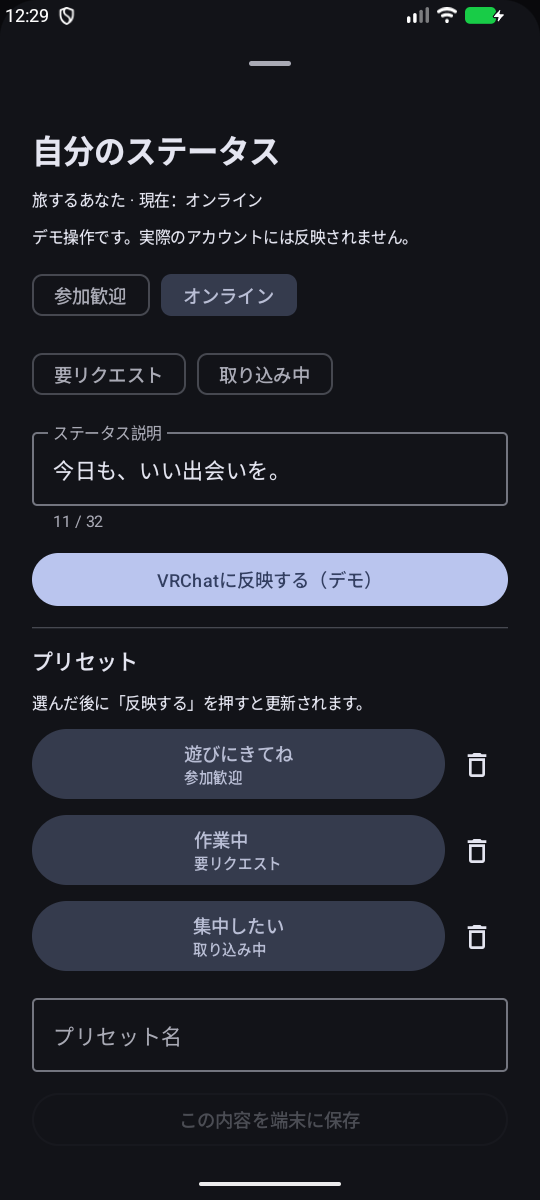
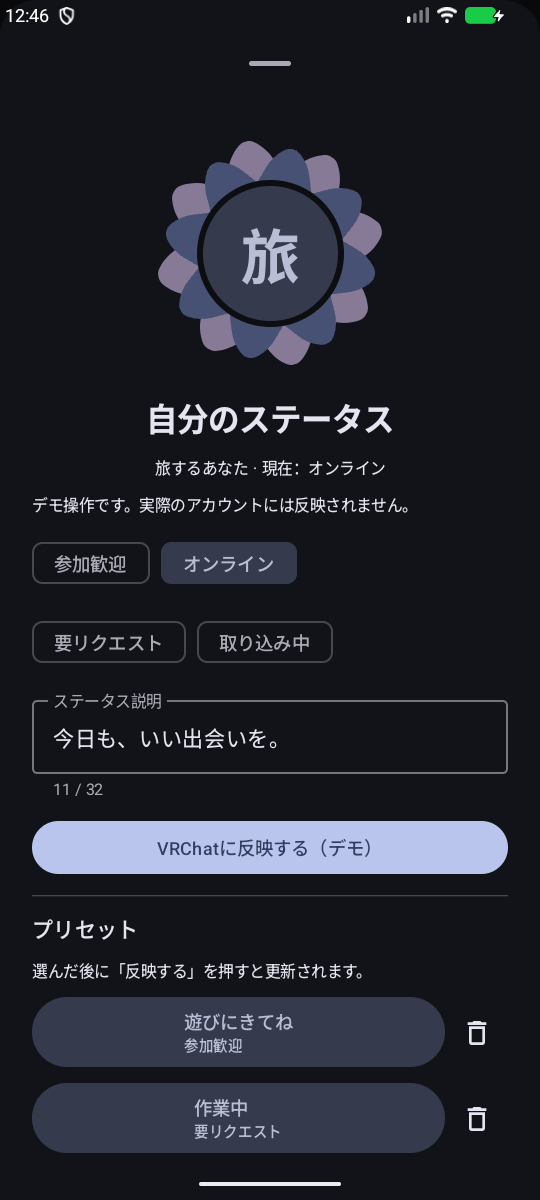
feat(profile): 自分のアバターをMaterial Expressiveの花形フレームで囲む

diff --git a/app/src/main/java/com/yamato3010/vrchattools/ui/SocialScreens.kt b/app/src/main/java/com/yamato3010/vrchattools/ui/SocialScreens.kt
@@ -4,6 +4,11 @@ package com.yamato3010.vrchattools.ui
 import android.content.Intent
 import android.net.Uri
 import androidx.compose.foundation.layout.*
+import androidx.compose.foundation.background
+import androidx.compose.foundation.border
+import androidx.compose.foundation.shape.CircleShape
+import androidx.compose.ui.draw.clip
+import androidx.compose.ui.draw.rotate
 import androidx.compose.foundation.lazy.LazyColumn
 import androidx.compose.foundation.lazy.items
 import androidx.compose.foundation.rememberScrollState
@@ -130,8 +135,9 @@ fun StatusSheet(model: OrbitViewModel, onDismiss: () -> Unit) {
     var name by rememberSaveable { mutableStateOf("") }
     ModalBottomSheet(onDismissRequest = { if (!model.socialBusy) onDismiss() }, sheetState = rememberModalBottomSheetState(skipPartiallyExpanded = true)) {
         Column(Modifier.fillMaxWidth().verticalScroll(rememberScrollState()).imePadding().padding(24.dp), verticalArrangement = Arrangement.spacedBy(12.dp)) {
-            Text("自分のステータス", style = MaterialTheme.typography.headlineSmall, fontWeight = FontWeight.Bold)
-            Text("${model.ownProfile.name} · 現在：${model.ownProfile.status.label}", style = MaterialTheme.typography.bodySmall)
+            StatusProfileHeader(model.ownProfile)
+            Text("自分のステータス", modifier = Modifier.align(Alignment.CenterHorizontally), style = MaterialTheme.typography.headlineSmall, fontWeight = FontWeight.Bold)
+            Text("${model.ownProfile.name} · 現在：${model.ownProfile.status.label}", style = MaterialTheme.typography.bodySmall, modifier = Modifier.align(Alignment.CenterHorizontally))
             if (model.demo) Text("デモ操作です。実際のアカウントには反映されません。", style = MaterialTheme.typography.bodySmall)
             SocialStatus.entries.chunked(2).forEach { row -> Row(horizontalArrangement = Arrangement.spacedBy(8.dp)) {
                 row.forEach { value -> FilterChip(selected = status == value, onClick = { status = value }, label = { Text(value.label) }) }
@@ -148,6 +154,26 @@ fun StatusSheet(model: OrbitViewModel, onDismiss: () -> Unit) {
             OutlinedTextField(name, { name = it.take(24) }, label = { Text("プリセット名") }, singleLine = true, modifier = Modifier.fillMaxWidth())
             OutlinedButton(onClick = { model.savePreset(name, status, description); name = "" }, enabled = name.isNotBlank() && model.presets.size < 12, modifier = Modifier.fillMaxWidth()) { Text("この内容を端末に保存") }
             Spacer(Modifier.height(16.dp))
+        }
+    }
+}
+
+/** Expressive の公式の花形をアバターの枠に使い、プロフィール画像全体が見えるようにする。 */
+@OptIn(ExperimentalMaterial3ExpressiveApi::class)
+@Composable
+private fun StatusProfileHeader(profile: OwnProfile) {
+    val flower = MaterialShapes.Flower.toShape()
+    val colors = MaterialTheme.colorScheme
+    Box(Modifier.fillMaxWidth().padding(top = 4.dp, bottom = 4.dp), contentAlignment = Alignment.Center) {
+        Box(Modifier.size(184.dp), contentAlignment = Alignment.Center) {
+            Box(Modifier.size(174.dp).rotate(-12f).background(colors.tertiaryContainer.copy(alpha = .55f), flower))
+            Box(Modifier.size(162.dp).rotate(12f).background(colors.primaryContainer, flower))
+            RemoteImage(profile.imageUrls, "自分のアイコン",
+                Modifier.size(112.dp).border(4.dp, colors.surface, CircleShape).padding(4.dp)
+                    .clip(CircleShape).background(colors.secondaryContainer)) {
+                Text(profile.name.take(1).ifBlank { "O" }, style = MaterialTheme.typography.displayMedium,
+                    fontWeight = FontWeight.Bold, color = colors.onSecondaryContainer)
+            }
         }
     }
 }

diff --git a/app/src/main/java/com/yamato3010/vrchattools/data/Pipeline.kt b/app/src/main/java/com/yamato3010/vrchattools/data/Pipeline.kt
@@ -37,7 +37,7 @@ fun applyFriendUpdate(friends: List<Friend>, update: FriendUpdate): List<Friend>
 sealed interface PipelineEvent {
     data class FriendChanged(val update: FriendUpdate) : PipelineEvent
     data class NotificationChanged(val change: NotificationChange) : PipelineEvent
-    data class OwnChanged(val status: SocialStatus?, val description: String?, val name: String?, val location: String?) : PipelineEvent
+    data class OwnChanged(val status: SocialStatus?, val description: String?, val name: String?, val location: String?, val images: List<String>? = null) : PipelineEvent
     data object Resync : PipelineEvent
     data object SessionError : PipelineEvent
 }
@@ -59,7 +59,7 @@ internal fun parsePipelineEvent(text: String): PipelineEvent? = runCatching {
         type.startsWith("friend-") && type in setOf("friend-add", "friend-delete", "friend-online", "friend-offline", "friend-active", "friend-location", "friend-update") -> {
             val user = data.optJSONObject("user") ?: JSONObject()
             val id = data.textOrNull("userId") ?: data.textOrNull("userid") ?: user.textOrNull("id") ?: return@runCatching null
-            val imageFields = listOf("userIcon", "iconUrl", "profilePicOverride", "currentAvatarThumbnailImageUrl", "currentAvatarImageUrl")
+            val imageFields = profileImageFields
             val images = if (imageFields.any(user::has)) imageUrls(*imageFields.map { user.textOrNull(it) }.toTypedArray()) else null
             val tags = user.optJSONArray("tags")
             val platform = data.textOrNull("platform") ?: user.textOrNull("last_platform")
@@ -71,7 +71,8 @@ internal fun parsePipelineEvent(text: String): PipelineEvent? = runCatching {
         type == "user-update" || type == "user-location" -> {
             val user = data.optJSONObject("user") ?: JSONObject()
             PipelineEvent.OwnChanged(user.textOrNull("status")?.let(SocialStatus::from), user.textOrNull("statusDescription"), user.textOrNull("displayName"),
-                data.textOrNull("location") ?: user.textOrNull("location"))
+                data.textOrNull("location") ?: user.textOrNull("location"),
+                if (profileImageFields.any(user::has)) user.profileImageUrls() else null)
         }
         else -> null
     }

diff --git a/app/src/main/java/com/yamato3010/vrchattools/data/Models.kt b/app/src/main/java/com/yamato3010/vrchattools/data/Models.kt
@@ -51,8 +51,7 @@ internal fun JSONObject.toFriend(): Friend {
     val tags = optJSONArray("tags")?.let { array ->
         (0 until array.length()).mapNotNull { array.opt(it) as? String }
     }
-    val images = imageUrls(optString("userIcon"), optString("iconUrl"), optString("profilePicOverride"),
-        optString("currentAvatarThumbnailImageUrl"), optString("currentAvatarImageUrl"))
+    val images = profileImageUrls()
     return Friend(optString("id"), optString("displayName"), Presence.from(optString("status"), location),
         location, image = images.firstOrNull().orEmpty(), imageFallbacks = images.drop(1),
         bio = optString("statusDescription"),
@@ -65,3 +64,6 @@ internal fun JSONObject.toWorld(): World {
         optInt("occupants"), optInt("capacity", 32), images.firstOrNull().orEmpty(),
         optString("description"), imageFallbacks = images.drop(1))
 }
+
+internal val profileImageFields = listOf("userIcon", "iconUrl", "profilePicOverride", "currentAvatarThumbnailImageUrl", "currentAvatarImageUrl")
+internal fun JSONObject.profileImageUrls(): List<String> = imageUrls(*profileImageFields.map { optString(it) }.toTypedArray())

diff --git a/app/src/androidTest/java/com/yamato3010/vrchattools/SocialProtocolTest.kt b/app/src/androidTest/java/com/yamato3010/vrchattools/SocialProtocolTest.kt
@@ -46,6 +46,13 @@ class SocialProtocolTest {
     @Test fun ownProfilePatchDoesNotInventMissingLocationOrDescription() {
         val event = parsePipelineEvent(JSONObject().put("type", "user-update").put("content", JSONObject().put("user", JSONObject().put("status", "ask me"))).toString()) as PipelineEvent.OwnChanged
         assertEquals(SocialStatus.AskMe, event.status); assertNull(event.description); assertNull(event.location)
+        assertNull(event.images)
+        val user = JSONObject().put("id", "usr_self").put("userIcon", "https://api.vrchat.cloud/icon")
+            .put("currentAvatarThumbnailImageUrl", "https://api.vrchat.cloud/avatar")
+        assertEquals(listOf("https://api.vrchat.cloud/icon", "https://api.vrchat.cloud/avatar"), user.toOwnProfile().imageUrls)
+        val iconEvent = parsePipelineEvent(JSONObject().put("type", "user-update").put("content", JSONObject().put("user", user)).toString()) as PipelineEvent.OwnChanged
+        assertEquals(user.toOwnProfile().imageUrls, iconEvent.images)
+
     }
     @Test fun pipelineEncodesTokenUsesUserAgentAndClosesOnCancellation() = runBlocking {
         val server = server()

diff --git a/app/src/main/java/com/yamato3010/vrchattools/data/SocialModels.kt b/app/src/main/java/com/yamato3010/vrchattools/data/SocialModels.kt
@@ -18,9 +18,9 @@ val defaultStatusPresets = listOf(
 const val STATUS_DESCRIPTION_LIMIT = 32
 fun validStatusDescription(text: String) = text.length <= STATUS_DESCRIPTION_LIMIT
 
-data class OwnProfile(val id: String, val name: String, val status: SocialStatus, val description: String, val location: String)
+data class OwnProfile(val id: String, val name: String, val status: SocialStatus, val description: String, val location: String, val imageUrls: List<String> = emptyList())
 internal fun JSONObject.toOwnProfile() = OwnProfile(optString("id"), optString("displayName"),
-    SocialStatus.from(optString("status")), optString("statusDescription"), optString("location", "offline"))
+    SocialStatus.from(optString("status")), optString("statusDescription"), optString("location", "offline"), profileImageUrls())
 
 enum class NotificationType(val apiValue: String, val label: String) {
     Invite("invite", "招待"), RequestInvite("requestInvite", "招待リクエスト"), FriendRequest("friendRequest", "フレンド申請"),

diff --git a/app/src/main/java/com/yamato3010/vrchattools/data/OrbitViewModel.kt b/app/src/main/java/com/yamato3010/vrchattools/data/OrbitViewModel.kt
@@ -105,7 +105,7 @@ class OrbitViewModel(application: Application) : AndroidViewModel(application) {
                                 is PipelineEvent.OwnChanged -> {
                                     profileRevision++
                                     ownProfile = ownProfile.copy(status = event.status ?: ownProfile.status, description = event.description ?: ownProfile.description,
-                                        name = event.name ?: ownProfile.name, location = event.location ?: ownProfile.location)
+                                        name = event.name ?: ownProfile.name, location = event.location ?: ownProfile.location, imageUrls = event.images ?: ownProfile.imageUrls)
                                     displayName = ownProfile.name
                                 }
                                 PipelineEvent.Resync -> { refresh(); refreshNotifications() }

diff --git a/README.md b/README.md
@@ -28,7 +28,7 @@ VRChatのフレンドとワールドを身近にする、Kotlin / Jetpack Compos
 <img src="docs/screenshots/notifications.png" alt="アプリ内の招待と通知" width="280" />
 <img src="docs/screenshots/status-presets.png" alt="自分のステータスと端末保存プリセット" width="280" />
 
-上部のベルから通知、アカウントアイコンから自分のステータスを開きます。フレンド詳細の「招待する」「招待をリクエスト」から送信画面を開けます。
+上部のベルから通知、アカウントアイコンから自分のステータスを開きます。ステータス画面の中央上部には、Material 3 Expressiveの公式Flower形状をテーマ色で重ねた背景と、大きな自分のアイコンを表示します。プロフィール画像を取得し、未設定時はイニシャルを表示します。フレンド詳細の「招待する」「招待をリクエスト」から送信画面を開けます。
 
 - アプリ表示中だけPipelineに接続し、非表示になると切断。切断後は最大60秒まで間隔を広げて再接続し、接続時と2分ごとにAPIの一覧を取り直します。設定で自動更新を停止できます。
 - 部分的なイベントでアイコン・ランク・現在地を消さず、一覧の取得中に届いたイベントも反映。移動先が非公開／移動中の場合、隠れた行き先を表示しません。
@@ -112,6 +112,7 @@ ANDROID_SERIAL=emulator-5554 ./gradlew :app:connectedDebugAndroidTest
 - フレンド検索・状態判定5件、インスタンスの識別・グルーピング6件、トラストランク判定4件、画像URL選択3件、認証Cookieのホスト制限2件、インスタンスURLとエラー分類5件、ソーシャル差分・通知・招待先検証7件のユニットテスト成功（テンプレートのテストを含めると33件）
 - ソーシャル機能追加後、Android 17の専用エミュレーターで端末テスト18件成功。通知の既読・申請承認、招待確認のキャンセル、プリセット反映と既存の画面遷移・画像・テーマの回帰テストを含みます。
 - ローカルHTTPS／WebSocketサーバーでPipelineの接続・認証トークンのエンコード・User-Agent・キャンセル、部分イベントと通知の解析、ステータス／招待／返信／申請承認のHTTPパスとJSON本文を検証（上記18件のうち5件）。実際の相手には送信していません。
+- ステータスの花形アイコンヘッダー追加後、単体テスト33件とソーシャル関連の端末テスト8件成功。自分の画像URLの優先順・部分更新での画像維持を確認し、デモ画面のスクリーンショットを更新しました。
 - Android Lint：エラー0件。依存関係の更新案・KTXの利用案などの警告は残っています。
 - Android 17エミュレーターでホームとインスタンスカードの実表示を確認し、上のスクリーンショットを撮影
 - 画像機能追加時、Android 17の独立したテスト用エミュレーターで端末テスト9件成功：個人表示の検索・詳細遷移、インスタンス別表示、動的テーマの保持、APIレスポンスのランク・画像URL解析、画像の実取得と再試行、アプリコンテキスト。テストAPKは `cmd package compile -m speed -f` で事前コンパイルして実行しました。
